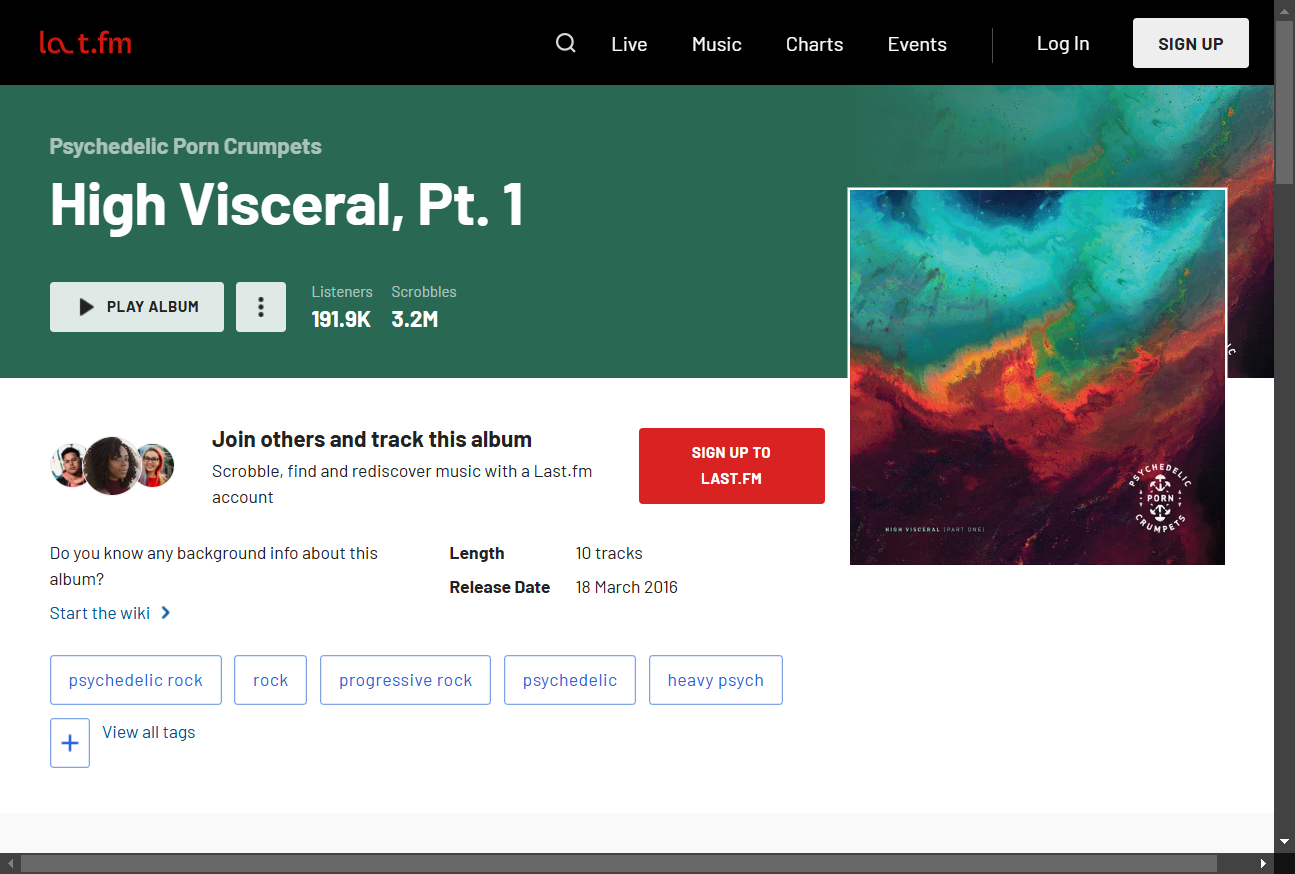
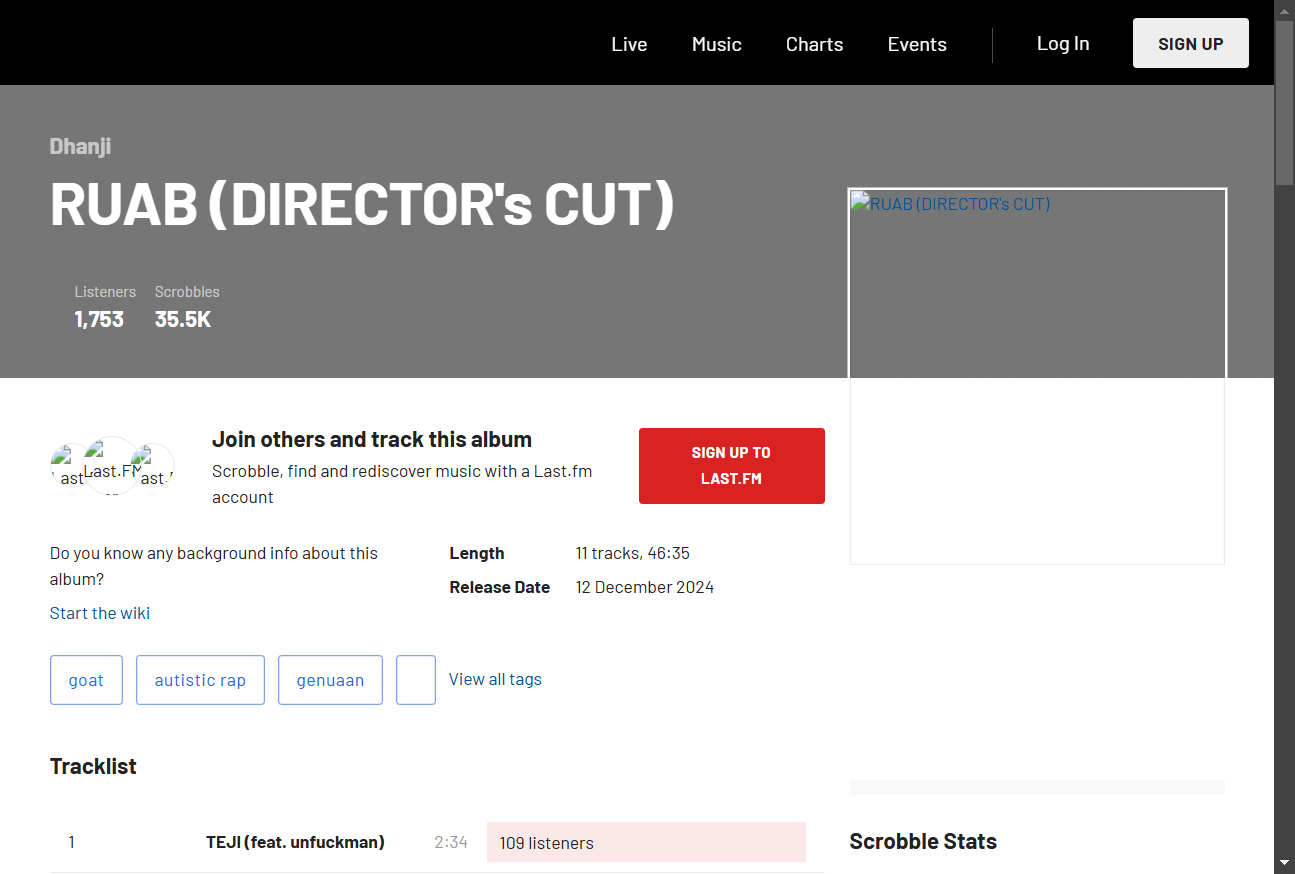
optimized loading and fixed empty metadata error

diff --git a/Selenium test.py b/Selenium test.py
@@ -4,6 +4,7 @@ from selenium.webdriver.chrome.service import Service
 from selenium.webdriver.support.ui import WebDriverWait
 from selenium.webdriver.support import expected_conditions as EC
 
+
 from bs4 import BeautifulSoup
 
 def unique(list):
@@ -13,29 +14,37 @@ def unique(list):
     for i in list:
         if i not in unique_list:
             unique_list.append(i)
-          
+
     return unique_list
 
 url = 'https://www.last.fm/search/albums'
-album = 'High Visceral, Pt. 1'
+album = 'RUAB'
 
-driver = webdriver.Chrome()
+options = webdriver.ChromeOptions()
+options.add_argument('--headless=new')
+options.add_argument("--disable-extensions")
+options.add_experimental_option('prefs', {'profile.managed_default_content_settings.images': 2,
+                                          'profile.managed_default_content_settings.javascript': 2})
+
+driver = webdriver.Chrome(options=options)
 driver.get(url)
 
 '''<input id="site-search" class="search-field" type="text" name="q" placeholder="Search for music…" value="" required="">'''
 search_bar = driver.find_element(By.ID, 'site-search')
+#search_bar = WebDriverWait(driver, 5).until(EC.presence_of_element_located((By.ID, 'site-search')))
 
 search_bar.click()
 search_bar.send_keys(album)
 search_bar.submit()
 
 '''<a href="/music/Frank+Ocean/Blonde" title="Blonde" class="link-block-target">Blonde</a>'''
-album = WebDriverWait(driver, 3).until(EC.presence_of_element_located((By.LINK_TEXT, album)))
+album = WebDriverWait(driver, 3).until(EC.presence_of_element_located((By.PARTIAL_LINK_TEXT, album)))
 album.click()
+
+WebDriverWait(driver, 3).until(EC.presence_of_element_located((By.CLASS_NAME, 'header-new-title')))
 
 html = driver.page_source
 driver.save_screenshot('album_page.png')
-#print(driver.current_url)
 
 driver.quit()
 
@@ -43,11 +52,20 @@ soup = BeautifulSoup(html, 'html.parser')
 
 artist = soup.find('span', attrs={'itemprop':'name'}).text
 
-metadata = unique(soup.find_all('dd', attrs={'class':'catalogue-metadata-description'}))
-#print(metadata)
+metadata = soup.find_all('dd', attrs={'class':'catalogue-metadata-description'})
 
-runtime = metadata[0].text
-release = metadata[1].text
+try:
+    if metadata:
+        runtime = metadata[0].text
+        release = metadata[1].text
+    
+        album_info = [artist, runtime.strip(), release.strip()]
+        print(album_info)
+        
+    else:
+        album_info = [artist, 'NA', 'NA']
+        print(album_info)
 
-album_info = [artist, runtime.strip(), release.strip()]
-print(album_info)
+except IndexError:
+    print('Error')
+    
